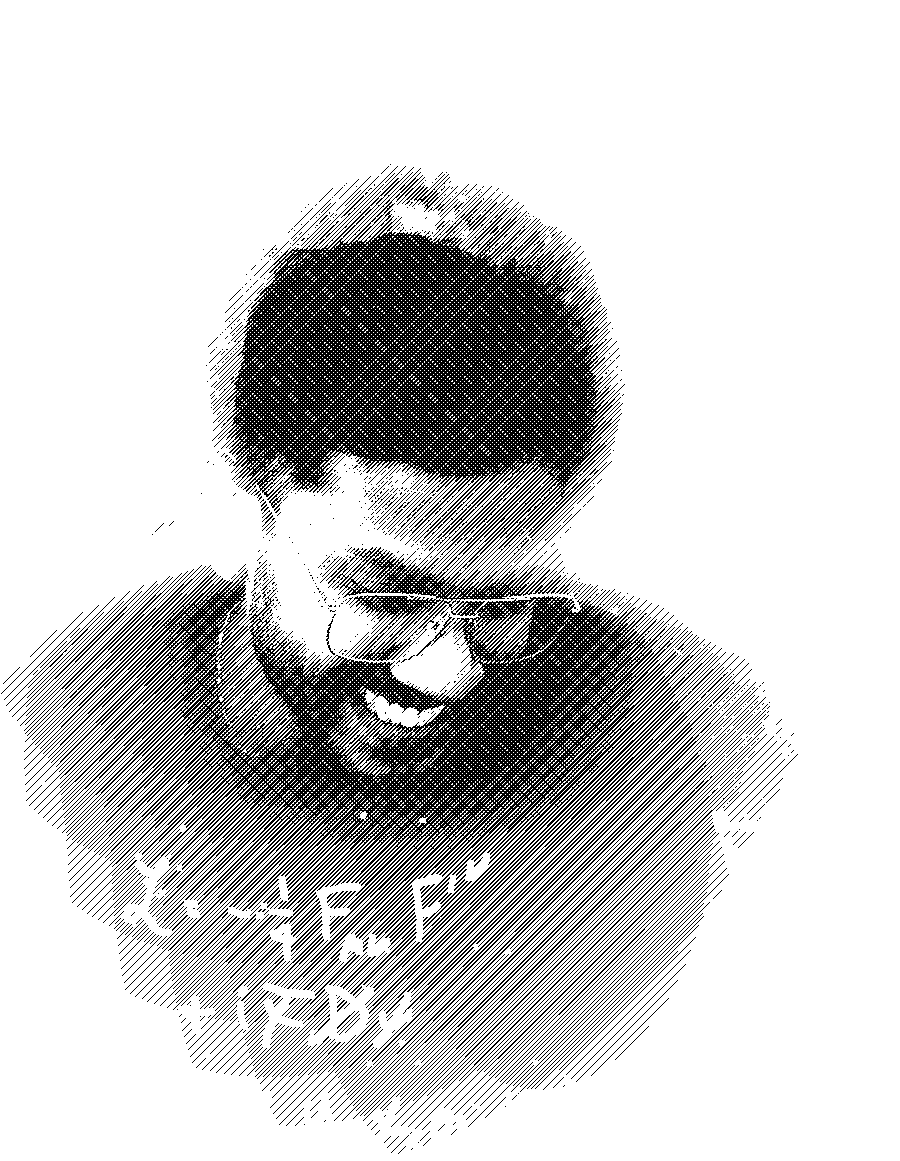
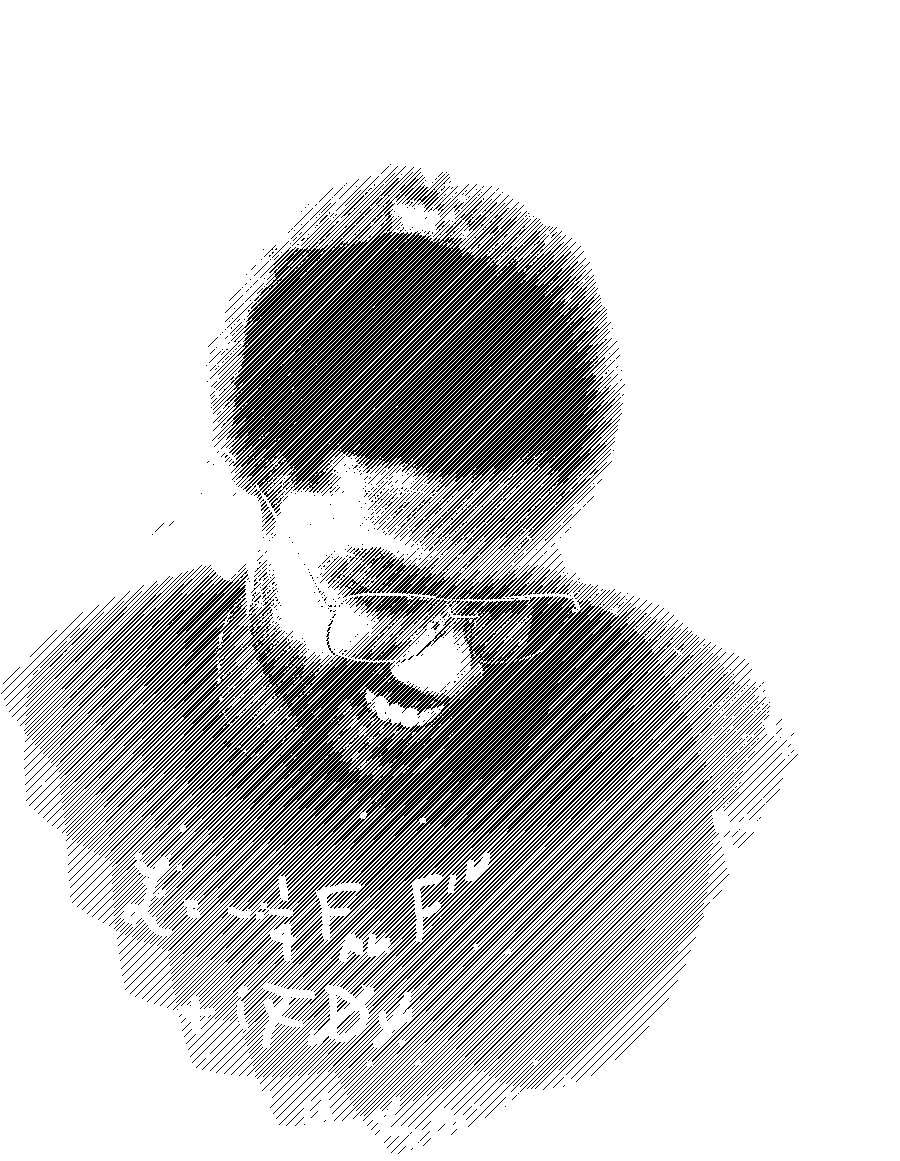
Sketch: drop the crossing ruling that banded in the hair; notes on the portrait and the hero options

diff --git a/scripts/engrave.py b/scripts/engrave.py
@@ -160,7 +160,7 @@ def sketch(src, width, crop=None, freq=150, gain=1.0, maxink=0.84,
     """Render a black-ruling-on-white sketch as a PIL image (mode "1")."""
     lum = tone(src, width, crop, ss)
     h, w = lum.shape
-    ruling, cross = rulings(lum.shape, freq, ss)
+    ruling, _ = rulings(lum.shape, freq, ss)
 
     # Ink follows darkness: shadow and hair are dense, the lit face is paper.
     t = np.clip((1 - lum) * gain, 0, 1)
@@ -181,10 +181,9 @@ def sketch(src, width, crop=None, freq=150, gain=1.0, maxink=0.84,
     t *= 1 - (1 - hoodie) * region
 
     ink = ((ruling + 1) * 0.5 < t).astype(np.float32)
-    # A second ruling across the deepest shadows, for modelling.
-    deep = np.clip((t - 0.52) / 0.28, 0, 1)
-    ink = np.maximum(ink, (((cross + 1) * 0.5 < deep * 0.45) & (deep > 0)).astype(np.float32))
-
+    # No second, crossing ruling: where it met the first it made a checker
+    # that beat against the browser's scaling and showed as bands in the hair.
+    # Density alone carries the deepest shadows.
     # The chalk equation: bright strokes on the dark hoodie, cut out of the ink.
     blur = np.asarray(
         Image.fromarray((lum * 255).astype(np.uint8)).filter(ImageFilter.GaussianBlur(10 * ss))

diff --git a/docs/redesign/founder-redesign-notes.md b/docs/redesign/founder-redesign-notes.md
@@ -169,3 +169,11 @@ Branch `design/founder-redesign`. First build pass, to iterate from.
 - **/services:** its closing block is still a dark `on-ink` panel; convert to the callout. The Register on home no longer links here; the "How it works" link and the footer "Work with me" still do (decision pending).
 - **/blog, /blog/[slug], /bookshelf, the three guides:** inherit the type and colour; blog prose keeps the serif.
 - **Not yet done:** page-by-page patterns; footer line drawing (O); LinkedIn "Open to work" banner; hero sentence choice; brand assets (`card.html.tmpl`, `favicon.html.tmpl`, then `npm run build` and `python3 scripts/brand-assets/build.py`); meta description, About title and `schemaDescription` wording (ask first); dark mode.
+
+## Portrait redrawn as a black sketch (2026-11-17)
+
+Her words: the portrait looked like "a negative of a film"; make it "more like a black sketch on white". Cause: the engraving (`plate-*`) was cut for a dark page, with line thickness following brightness. Her hair and hoodie are dark, so they carry almost no line and the lit face carries the heaviest, so inverting the colours gave white hair and a dark face. Fix: `sketch()` in `scripts/engrave.py` draws the positive instead, with ink following darkness (dense hair and shadow, a paper-white lit face). It crops the whole width down to the third line of the hoodie equation, masks the head and body softly so the rusty wall drops out, hatches the hoodie more calmly and cuts the chalk equation out of the ink so it stays white and legible. No crossing ruling: it beat against browser scaling and banded in the hair at small sizes. Output is `public/images/portrait-{1x,2x}.{webp,png}` (900 and 1600 wide, about 24 KB and 63 KB webp); `Plate.tsx` uses them and the CSS no longer inverts. `plate-*` stays only for the brand-asset templates. `python3 scripts/engrave.py` regenerates both.
+
+## Hero options (2026-11-17), waiting for her pick
+
+Mocks and screenshots are in `docs/redesign/shots/` (`hero-option-a-statement.png`, `-b-name.png`, `-c-centred.png`; the current build is `home-round1b-sketch-1440.png`). Same copy in all. A: the existing tagline set huge as the statement, with the name and "Startups-Operator. Maker. Explorer." as one quiet line under it, the portrait smaller; closest to her pick D plus R. B: the name leads, tightened, a bigger portrait with the sticker at the top right, and a hairline row carrying the button and the live time. C: centred, with a small portrait above the name and the harmonograph behind it. The hero sentence ("Helping founders build from idea to execution." or her title) is still open and can be tried on whichever layout she picks.
